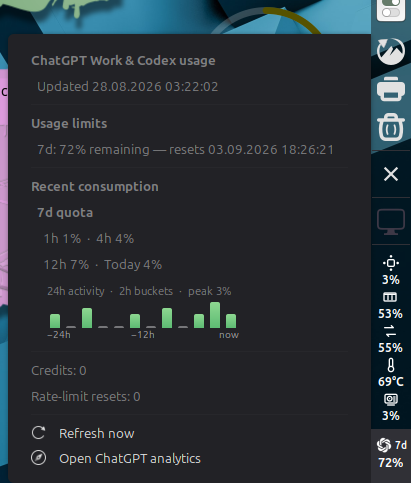
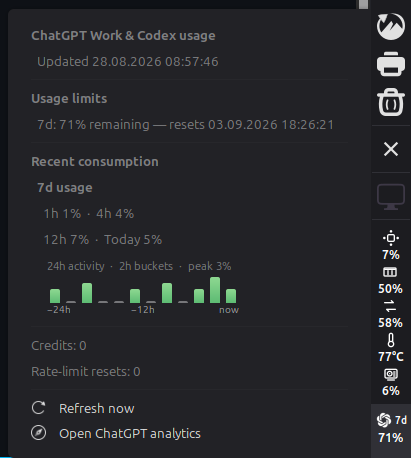
Refine usage label and menu crop

diff --git a/applet.js b/applet.js
@@ -351,7 +351,7 @@ class ChatGptUsageApplet extends Applet.Applet {
                 period => period && period.complete === false
             );
 
-            this._addInfoItem(`  ${duration} quota`, "font-weight: bold;");
+            this._addInfoItem(`  ${duration} usage`, "font-weight: bold;");
             this._addInfoItem(`    1h ${oneHour}  ·  4h ${fourHours}`);
             this._addInfoItem(`    12h ${twelveHours}  ·  Today ${today}`);
             this._addActivityChart(
